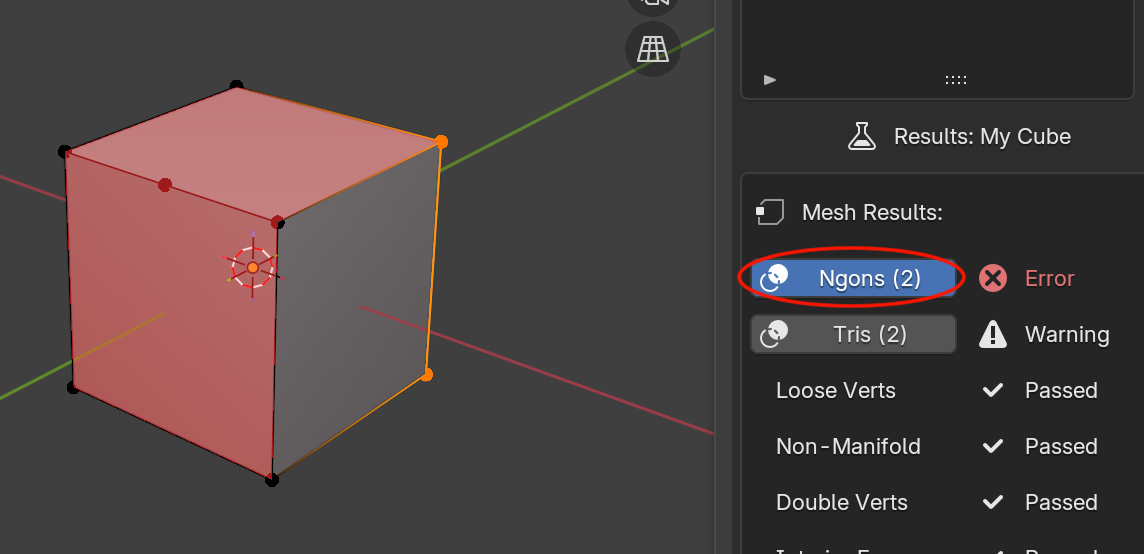
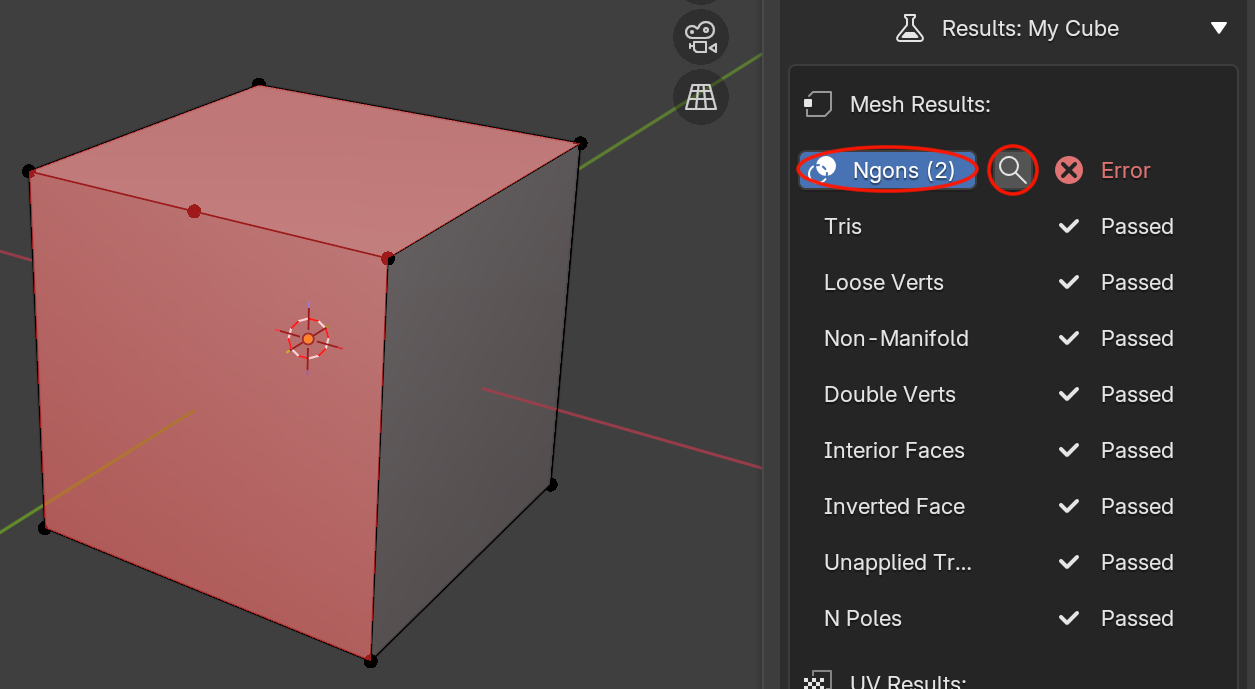
Feature: added images to each inspection

diff --git a/docs/inspections/mesh-inspections.md b/docs/inspections/mesh-inspections.md
@@ -2,21 +2,26 @@
 
 Inspections in the **Mesh** category look at topology and transforms. All of them read the object's evaluated mesh (post-modifiers) unless noted otherwise.
 
+!!! note "Inspection Note"
+    Many of these mesh inspections detect common issues that are **not always** an issue for meshes. If you for example are using Ngons in your workflow, feel free to disable that inspection.   
+
 ## Ngons
 
 **Severity:** :material-close-circle:{ style="color: #e0392b" } Error
 
-Finds faces with more than 4 vertices. N-gons can triangulate unpredictably, cause shading artifacts, and often indicate topology that hasn't been cleaned up.
+Finds faces with more than 4 vertices. N-gons can triangulate unpredictably, cause shading artifacts, and often indicate topology that hasn't been cleaned up. 
 
-**Overlay:** highlighted faces.
+
+
+![The Model Inspector panel with the Add Object button highlighted](../assets/images/inspection-ngon.png){ style="display: block; margin: 0 auto;" }
 
 ## Tris
 
 **Severity:** :material-alert:{ style="color: #e6a700" } Warning
 
-Finds triangular faces (3 vertices). Not necessarily wrong — tris are sometimes intentional or unavoidable — but worth reviewing if you expect an all-quad mesh for subdivision or retopology work.
+Finds triangular faces (3 vertices). Not necessarily an error as tris are sometimes intentional or unavoidable. However it is worth reviewing this if you expect an all-quad mesh for subdivision or retopology work.
 
-**Overlay:** highlighted faces.
+![The Model Inspector panel with the Add Object button highlighted](../assets/images/inspection-tri.png){ style="display: block; margin: 0 auto;" }
 
 ## Loose Verts
 
@@ -24,7 +29,7 @@ Finds triangular faces (3 vertices). Not necessarily wrong — tris are sometime
 
 Finds vertices that aren't connected to any edge. These add nothing to the mesh and are usually leftover from deleting geometry.
 
-**Overlay:** vertex markers.
+![The Model Inspector panel with the Add Object button highlighted](../assets/images/inspection-loose-vert.png){ style="display: block; margin: 0 auto;" }
 
 ## Non-Manifold
 
@@ -32,7 +37,7 @@ Finds vertices that aren't connected to any edge. These add nothing to the mesh 
 
 Finds edges shared by a number of faces other than 2 (i.e. boundary edges shared by only 1 face, or edges shared by 3+ faces). Non-manifold geometry can break modifiers, booleans, and 3D printing/export pipelines.
 
-**Overlay:** highlighted edges.
+![The Model Inspector panel with the Add Object button highlighted](../assets/images/inspection-non-manifold.png){ style="display: block; margin: 0 auto;" }
 
 ## Double Verts
 
@@ -40,23 +45,25 @@ Finds edges shared by a number of faces other than 2 (i.e. boundary edges shared
 
 Finds vertices within a small merge threshold (`0.0001`, matching Blender's default *Merge by Distance*) of another vertex. Duplicate, coincident vertices usually mean an accidental merge failure or import artifact.
 
-**Overlay:** vertex markers.
+![The Model Inspector panel with the Add Object button highlighted](../assets/images/inspection-double-verts.png){ style="display: block; margin: 0 auto;" }
 
 ## Interior Faces
 
 **Severity:** :material-close-circle:{ style="color: #e0392b" } Error
 
-Finds faces where **every** edge is shared by more than 2 faces — geometry buried inside the mesh with no exterior boundary. Common after boolean operations or bad merges.
+Finds faces where **every** edge is shared by more than 2 faces. Indicates that geometry is buried inside the mesh with no exterior boundary. Common after boolean operations or bad merges.
 
-**Overlay:** highlighted faces.
+![The Model Inspector panel with the Add Object button highlighted](../assets/images/inspection-interior-faces.png){ style="display: block; margin: 0 auto;" }
 
 ## Inverted Face
 
 **Severity:** :material-close-circle:{ style="color: #e0392b" } Error
 
-Finds faces whose normal disagrees with a neighboring face across a shared edge — a sign the face's winding is flipped relative to the surface around it. Inverted normals cause inside-out shading and lighting errors.
+Finds faces whose normal disagrees with a neighboring face across a shared edge. Inverted normals cause inside-out shading and lighting errors.
 
 **Overlay:** highlighted faces.
+
+![The Model Inspector panel with the Add Object button highlighted](../assets/images/inspection-flipped-normal.png){ style="display: block; margin: 0 auto;" }
 
 ## Unapplied Transform
 
@@ -64,7 +71,8 @@ Finds faces whose normal disagrees with a neighboring face across a shared edge 
 
 Finds objects with a rotation or scale that hasn't been applied (i.e. the object's rotation/scale isn't identity). Unapplied transforms can cause inconsistent behavior with modifiers, physics, and exports.
 
-**Overlay:** none — this flags the object as a whole, not specific geometry.
+![The Model Inspector panel with the Add Object button highlighted](../assets/images/inspection-unapplied-transform.png){ style="display: block; margin: 0 auto;" }
+
 
 ## N Poles
 
@@ -72,4 +80,6 @@ Finds objects with a rotation or scale that hasn't been applied (i.e. the object
 
 Finds vertices connected to 6 or more edges (high valence). High-valence poles tend to cause visible pinching under subdivision.
 
-**Overlay:** vertex markers.
+![The Model Inspector panel with the Add Object button highlighted](../assets/images/inspection-npoles.png){ style="display: block; margin: 0 auto;" }
+
+

diff --git a/docs/user-guide/running-inspections.md b/docs/user-guide/running-inspections.md
@@ -1,14 +1,16 @@
 # Running an Inspection
 
-Once you have [objects added](selecting-objects.md) and the checks you want [enabled](interface-overview.md#inspections), click **Run Inspection**.
+Once you have [objects added](selecting-objects.md) and the specific inspections you want [enabled](interface-overview.md#inspections), click **Run Inspection**.
 
-(**TO DO ADD IMAGE**)
+![The Model Inspector panel with the Add Object button highlighted](../assets/images/run-inspections.png){ style="display: block; margin: 0 auto;" }
 
-## What happens when you run it
 
-1. Any results and overlays from a previous run are cleared.
-2. Model Inspector builds the list of checks to run: a check only runs if **both** its category and the check itself are enabled.
-3. For every object in the inspection list, every enabled check runs against that object, using Blender's evaluated dependency graph — so modifiers are taken into account.
+
+## What happens when you run an Inspection?
+
+1. Any results and overlays from a previous inspection are cleared.
+2. Model Inspector builds the list of inspections to run. An inspection only runs if **both** its category and the check itself are enabled.
+3. For every object in the inspection list, every enabled inspection runs against that object. Blender's modifiers are taken into account.
 4. Each object's results are stored and shown when you select it in the list.
 5. Once every object has been checked, Blender's status bar reports how many objects were inspected and how long it took, e.g. `Ran tests on 3 object(s) in 0.42s`. Use it to gauge how much a run costs before scaling up to a bigger batch of objects.
 
@@ -16,20 +18,23 @@ Once you have [objects added](selecting-objects.md) and the checks you want [ena
 
 Model Inspector will refuse to run, and report why, if:
 
-- **You're not in Object Mode.** Switch out of Edit Mode / Sculpt Mode / etc. first.
 - **The inspection list is empty.** Add at least one object.
 - **No checks are enabled.** Enable at least one category and at least one check within it.
+- **You're not in Object Mode.** Switch out of Edit Mode / Sculpt Mode / etc. first.
 
 ## Large meshes
 
-Before running, Model Inspector totals the **evaluated** vertex count (post-modifier) across every object in the inspection list. If that total is above 100,000 vertices, clicking **Run Inspection** first shows a confirmation dialog warning that the inspection may take a while and suggesting you save your file first:
+Before running, Model Inspector totals the **evaluated** vertex count (post-modifiers) across every object in the inspection list. If that total is above 100,000 vertices, clicking **Run Inspection** first shows a confirmation dialog warning that the inspection may take a while and suggesting you save your file first. 
 
-> Inspecting *N* vertices. This may take some time to complete. Consider saving before running this operation.
+![The Model Inspector panel with the Add Object button highlighted](../assets/images/user-guide-high-vert-count-warning.png){ style="display: block; margin: 0 auto;" }
 
-Confirm to run the inspection anyway, or cancel to trim your object list first. Once this threshold is crossed, the panel also keeps a **High vertex count** warning visible below the Run Inspection button as a standing reminder.
+Confirm to run the inspection anyway, or cancel to trim your object list first. Once this threshold is crossed, the panel also keeps a **High vertex count** warning visible below the Run Inspection button as a standing reminder. This amount will be recalculate as you add objects and run inspections.
 
 ## Re-running
 
-Running the inspection again always starts clean — it clears prior results and overlays before re-checking, so results never go stale or mix between runs. This also means overlays you had toggled on will turn off; re-enable them from the fresh results if needed.
+Running the inspection again always starts clean. It clears prior results and overlays before re-checking, so results never go stale or mix between runs. This also means overlays you had toggled on will turn off. You can re-enable them from the fresh results if needed. 
+
+!!! info "Non Destructive Guarantee"
+    Model Inspector will **NEVER** try to modify your model in anyway.
 
 Next: [Reading Results & Overlays](results-and-overlays.md).

diff --git a/docs/inspections/uv-inspections.md b/docs/inspections/uv-inspections.md
@@ -6,33 +6,35 @@ Inspections in the **UV** category look at the object's active UV map.
 
 **Severity:** :material-close-circle:{ style="color: #e0392b" } Error
 
-Finds meshes that have faces but no UV layer at all. Without UVs, texturing and baking aren't possible.
+Finds meshes that have no UV layer at all. Without UVs, texturing and baking aren't possible.
 
-**Overlay:** none — this flags the object as a whole.
+![The Model Inspector panel with the Add Object button highlighted](../assets/images/inspection-no-uv-map.png){ style="display: block; margin: 0 auto;" }
 
-## Too Many UV Maps
+## Extra UV Maps
 
 **Severity:** :material-alert:{ style="color: #e6a700" } Warning
 
-Finds meshes with more than one UV map. Extra, unused UV maps bloat file size and can cause confusion about which map is actually used for texturing/baking.
+Finds meshes with more than one UV map. Extra, unused UV maps bloat file size and can cause confusion about which map is actually used for texturing/baking. 
 
-**Overlay:** none — the count shown is the number of UV maps present.
+![The Model Inspector panel with the Add Object button highlighted](../assets/images/inspection-too-many-uv-maps.png){ style="display: block; margin: 0 auto;" }
+
 
 ## Overlapping UVs
 
 **Severity:** :material-alert:{ style="color: #e6a700" } Warning
 
-Finds faces whose UV islands overlap another face's UVs (excluding triangles that belong to the same n-gon). Overlapping UVs are sometimes intentional (tiling/mirrored islands) but can cause unwanted texture bleed when baking.
+Finds faces whose UV islands overlap another face's UVs. Overlapping UVs are sometimes intentional (tiling/mirrored islands) but can cause unwanted texture bleed when baking.
 
-**Overlay:** highlighted faces.
+![The Model Inspector panel with the Add Object button highlighted](../assets/images/inspection-overlapping-uvs.png ){ style="display: block; margin: 0 auto;" }
+
 
 ## Zero Area UVs
 
 **Severity:** :material-close-circle:{ style="color: #e0392b" } Error
 
-Finds faces collapsed to zero or near-zero area in UV space. A face with no UV area can't display a texture correctly.
+Finds faces collapsed to zero or near-zero area in UV space. A face with no UV area can't display a texture correctly. Normally occurs when a proper UV unwrap has yet to be performed.
 
-**Overlay:** highlighted faces.
+![The Model Inspector panel with the Add Object button highlighted](../assets/images/inspection-zero-area-uv.png ){ style="display: block; margin: 0 auto;" }
 
 ## UVs Out of 0-1 Bounds
 
@@ -40,4 +42,20 @@ Finds faces collapsed to zero or near-zero area in UV space. A face with no UV a
 
 Finds faces with UV coordinates outside the standard 0–1 tile. Sometimes intentional (UDIMs, tiling), but often means the UVs need to be packed.
 
-**Overlay:** highlighted faces.
+![The Model Inspector panel with the Add Object button highlighted](../assets/images/inspection-out-of-bounds-uvs.png){ style="display: block; margin: 0 auto;" }
+
+## Stretched UVs
+
+**Severity:** :material-alert:{ style="color: #e6a700" } Warning
+
+Finds faces with stretched UVs, relative to their 3D shape where the mapping is compressed along one direction and expanded along another, rather than scaled evenly. 
+
+![The Model Inspector panel with the Add Object button highlighted](../assets/images/inspection-stretched-uvs.png){ style="display: block; margin: 0 auto;" }
+
+## Inconsistent Texel Density
+
+**Severity:** :material-alert:{ style="color: #e6a700" } Warning
+
+Finds faces whose UV texel density deviates significantly from the mesh's average. Faces mapped notably denser or sparser than that average are flagged.
+
+![The Model Inspector panel with the Add Object button highlighted](../assets/images/inspection-inconsistent-texels.png){ style="display: block; margin: 0 auto;" }

diff --git a/docs/inspections/material-inspections.md b/docs/inspections/material-inspections.md
@@ -8,7 +8,8 @@ Inspections in the **Material** category look at material slots and the node tre
 
 Finds meshes that have faces but zero material slots. Without a material, the object falls back to Blender's default viewport/render material.
 
-**Overlay:** none — this flags the object as a whole.
+![The Model Inspector panel with the Add Object button highlighted](../assets/images/inspection-no-material.png){ style="display: block; margin: 0 auto;" }
+
 
 ## Empty Material Slot
 
@@ -16,7 +17,8 @@ Finds meshes that have faces but zero material slots. Without a material, the ob
 
 Finds material slots that exist on the object but have no material assigned to them. The count shown is the number of empty slots.
 
-**Overlay:** none — slots aren't tied to specific geometry until assigned to faces.
+![The Model Inspector panel with the Add Object button highlighted](../assets/images/
+inspection-empty-material.png){ style="display: block; margin: 0 auto;" }
 
 ## Face With No Material
 
@@ -24,7 +26,8 @@ Finds material slots that exist on the object but have no material assigned to t
 
 Finds faces whose material slot index is empty or points outside the object's slot list. These faces render with no material.
 
-**Overlay:** highlighted faces.
+![The Model Inspector panel with the Add Object button highlighted](../assets/images/
+inspection-no-material-face.png){ style="display: block; margin: 0 auto;" }
 
 ## Missing Image Texture
 
@@ -32,12 +35,16 @@ Finds faces whose material slot index is empty or points outside the object's sl
 
 Finds faces whose assigned material contains an Image Texture node (including inside node groups) with no image loaded. Renders as pink/black in Blender and most engines.
 
-**Overlay:** highlighted faces.
+![The Model Inspector panel with the Add Object button highlighted](../assets/images/
+inspection-no-image-texture.png){ style="display: block; margin: 0 auto;" }
 
 ## Duplicate Material
 
 **Severity:** :material-alert:{ style="color: #e6a700" } Warning
 
-Finds materials with a Blender auto-generated `.001`-style duplicate name, where the original un-suffixed material also still exists in the file. This usually means the same material was accidentally appended or duplicated instead of reused.
+Finds materials with a Blender auto-generated `.001`style duplicate name, where the original un-suffixed material also still exists in the file. This usually means the same material was accidentally appended or duplicated instead of reused.
 
-**Overlay:** none — the count shown is the number of duplicate-named materials on the object.
+![The Model Inspector panel with the Add Object button highlighted](../assets/images/
+inspection-duplicate-material.png){ style="display: block; margin: 0 auto;" }
+
+

diff --git a/docs/user-guide/interface-overview.md b/docs/user-guide/interface-overview.md
@@ -15,6 +15,9 @@ Inside an expanded category, each inspection has its own checkbox to enable/disa
 
 A category's individual inspection is only used when the category checkbox itself is also enabled.
 
+![The Model Inspector panel with the Add Object button highlighted](../assets/images/getting-started-inspections.png){ style="display: block; margin: 0 auto;" }
+
+
 ## Objects to Inspect
 
 ![The Model Inspector panel with the Add Object button highlighted](../assets/images/user-interface-add-objects.png){ style="display: block; margin: 0 auto;" }
@@ -33,10 +36,15 @@ Selecting a row shows a **Results** section below the list with that object's ou
 
 ![The Model Inspector panel with the Add Object button highlighted](../assets/images/user-interface-run-inspections.png){ style="display: block; margin: 0 auto;" }
 
-The button at the bottom of the panel runs every enabled check, for every enabled category, against every object currently in the inspection list.
 
-Model Inspector requires Object Mode to run — switch out of Edit Mode, Sculpt Mode, etc. before running an inspection.
 
-If the objects in your list add up to a large vertex count, a **High vertex count** warning stays visible below the button as a reminder that a run may take a while. See [Large meshes](running-inspections.md#large-meshes).
+
+The button at the bottom of the panel runs every enabled inspection, for every enabled category, against every object currently in the inspection list.
+
+Model Inspector requires you to be in Object Mode to run an inspection. You will need to switch out of Edit Mode, Sculpt Mode, etc. before running an inspection.
+
+If the objects in your list add up to a large vertex count, a **High vertex count** warning stays visible below the button as a reminder that a run may take a while. See [High vertex count](running-inspections.md#large-meshes).
+
+![The Model Inspector panel with the Add Object button highlighted](../assets/images/user-guide-high-vert-count-warning.png){ style="display: block; margin: 0 auto;" }
 
 Continue to [Selecting Objects](selecting-objects.md).

diff --git a/docs/user-guide/selecting-objects.md b/docs/user-guide/selecting-objects.md
@@ -1,6 +1,6 @@
 # Selecting Objects
 
-Model Inspector only inspects objects you've explicitly added to its **Objects to Inspect** list. It will automatically try to scan your whole scene. 
+Model Inspector only inspects objects you've explicitly added to its **Objects to Inspect** list. It will **NOT** automatically try to scan your whole scene for meshes. 
 
 ## Adding objects
 
@@ -17,13 +17,16 @@ Every currently-selected object is added. If you attempt to add objects already 
 ## Removing objects
 
 
-![The Model Inspector panel with the Add Object button highlighted](../assets/images/user-interface-selecting-objects.png){ style="display: block; margin: 0 auto;" }
+![The Model Inspector panel with the Add Object button highlighted](../assets/images/removing-an-object.png){ style="display: block; margin: 0 auto;" }
 
 - Click a row to make it the active entry, then click ➖ to remove just that object.
 - Click 🗑 **Clear List** to remove every object at once. This also clears all stored results and turns off any active viewport overlays.
 
 ## Objects that no longer exist
 
-If an object referenced in the list is deleted from the scene, its row shows **`<missing object>`**. Remove it with ➖ or clear the whole list.
+If an object referenced in the list is deleted from the scene files, its row will show **`<missing object>`**. Remove it with ➖ or clear the whole list.
+
+!!! info "Deleted Objects Note"
+    Objects that have been deleted by e.g. the delete key or x, still remain in the scene files. This means they will still stay in the inspections list. Remember to remove any objects from your inspections list if you no longer wish to inspect them!
 
 Next: [Running an Inspection](running-inspections.md).

diff --git a/docs/user-guide/results-and-overlays.md b/docs/user-guide/results-and-overlays.md
@@ -6,17 +6,11 @@ After running an inspection, select an object in the **Objects to Inspect** list
 
 Results are grouped under a header for each category that ran (**Mesh Results**, **UV Results**, **Material Results**). Each check produces one row:
 
-(**TO DO ADD IMAGE**)
-
-<!-- | State | How it looks |
-| --- | --- |
-| ✅ Passed | Plain label, no count. |
-| ⚠ Warning | Label with an infraction count, e.g. `Tris (12)`. |
-| ❌ Error | Same as warning, shown in red to draw attention. | -->
+![The Model Inspector panel with the Add Object button highlighted](../assets/images/getting-started-results.png){ style="display: block; margin: 0 auto;" }
 
 ## Jumping to the geometry
 
-(**TO DO ADD IMAGE**)
+![The Model Inspector panel with the Add Object button highlighted](../assets/images/overlay-toggle.png){ style="display: block; margin: 0 auto;" }
 
 Checks that flag specific faces, vertices, or edges show their result as a clickable button. Clicking it toggles a colored overlay in the 3D Viewport highlighting exactly what was flagged:
 
@@ -28,7 +22,7 @@ Overlay colors match severity: **red** for errors, **yellow/orange** for warning
 
 ## Zooming to flagged geometry
 
-(**TO DO ADD IMAGE**)
+![The Model Inspector panel with the Add Object button highlighted](../assets/images/zoom-button.png){ style="display: block; margin: 0 auto;" }
 
 Any result with an overlay also shows a 🔍 magnifying glass button next to it. Click it to frame the 3D Viewport on exactly the geometry that check flagged — the same as selecting it and pressing Numpad `.` (View Selected).
 
